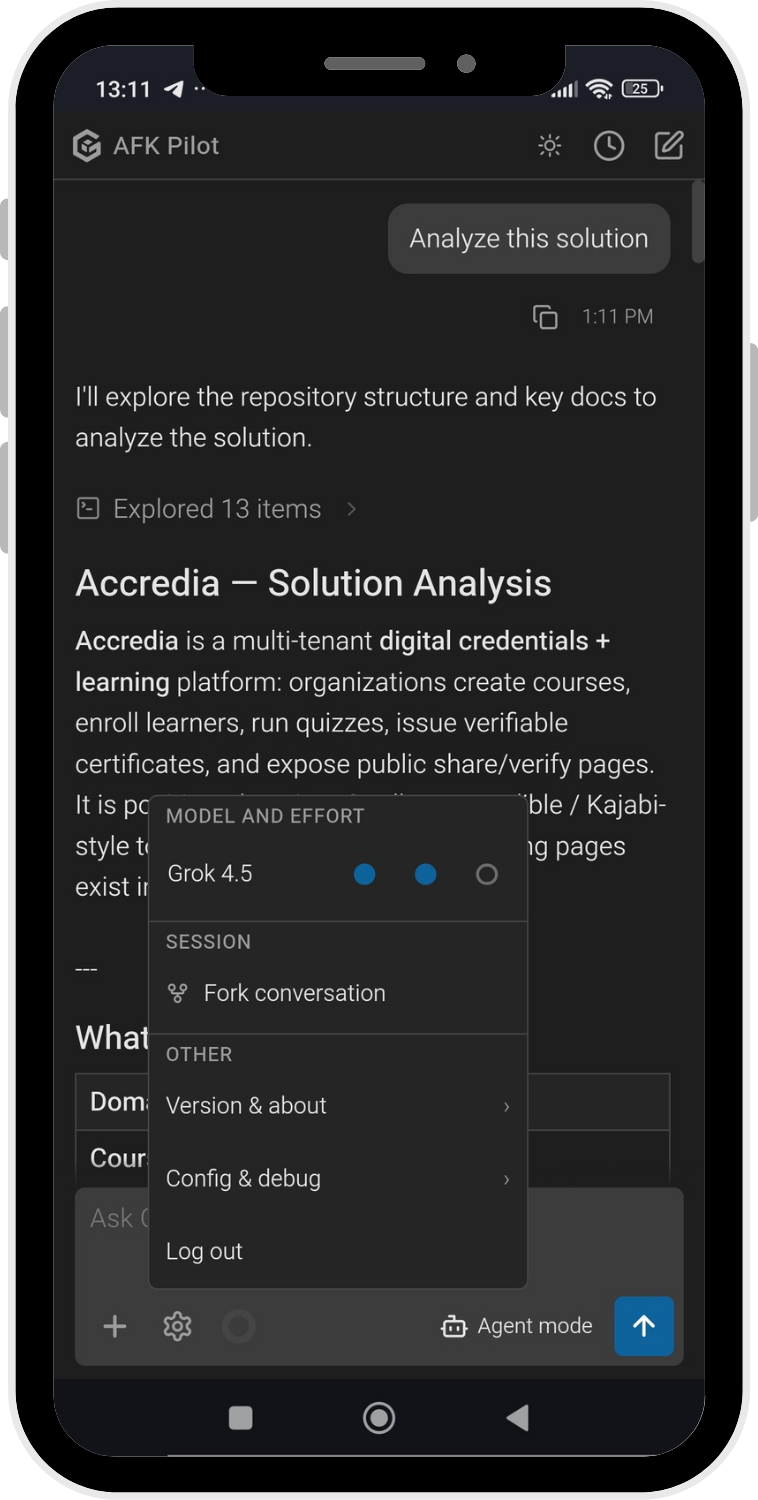
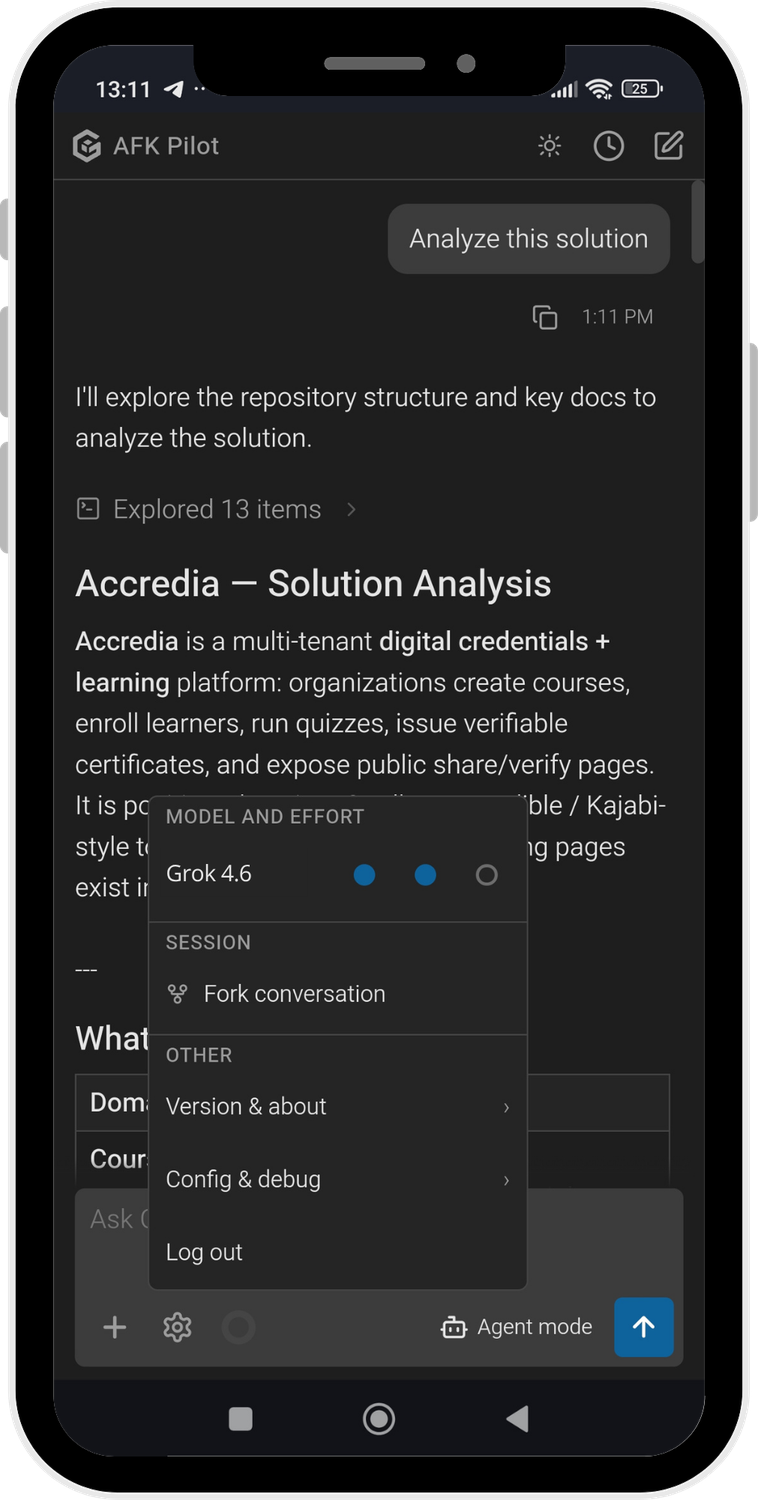
Website: the host is an IDE, adding a project is not desk-only, and one dead tooltip
Owner's pass over the marketing copy, plus the phone shot he re-took.

THE HOST IS NOT VS CODE. Two sentences named it as though it were — the
pairing-code line and the one-device FAQ answer — while the extension runs in
Cursor, Antigravity and everything else that takes a VSIX. Both now say "an IDE
such as VS Code, or Grok Build Desktop".

"ONLY AT THE DESK" CLAIMED TOO MUCH. "Adding a project folder — that opens a
file picker on the machine itself" stopped being true when creating and cloning
shipped as remote-capable: `createProject` and `cloneProject` are both "full"
in remote-policy.ts, and only `addProjectFolder` is host-local, because that one
opens a native picker a remote can neither see nor answer. So the desk column
now names exactly what is desk-bound — importing a folder that is already on the
machine — and the browser column gains the half that works.

Checked the neighbouring bullet rather than assuming: "Signing agents out of a
local machine — a Cloud machine can be signed out remotely" is accurate.
`logout` is host-local with a deliberate asymmetry (signing in adds an option,
signing out takes one away from every surface at once) and CLOUD_DISPOSITION
overrides it to "full". Left alone.

THE (i) ON "Unlimited local messages" is gone at the owner's request, and with
it the ~85 lines of tooltip CSS and JS it was the only user of. A tooltip system
with no tooltips is how the next reader loses ten minutes.
[…]

diff --git a/web/index.html b/web/index.html
@@ -402,58 +402,6 @@
   .plan-fine { margin: 0.85rem 0 0; font-family: var(--font-mono); font-size: 0.72rem; color: var(--faint); text-align: center; }
   .pricing-note { margin: 1.5rem auto 0; max-width: 780px; text-align: center; font-family: var(--font-mono); font-size: 0.72rem; color: var(--faint); }
 
-  /* info tooltip — hover on desktop, tap-to-toggle on touch (no hover to rely on) */
-  .info-wrap { position: relative; display: inline-flex; vertical-align: middle; margin-left: 0.35rem; }
-  .info-btn {
-    width: 1.05rem; height: 1.05rem; padding: 0;
-    display: inline-flex; align-items: center; justify-content: center;
-    border-radius: 50%;
-    border: 1px solid var(--border);
-    background: transparent;
-    color: var(--muted);
-    font-family: var(--font-mono);
-    font-size: 0.68rem;
-    line-height: 1;
-    cursor: pointer;
-  }
-  .info-btn:hover, .info-btn:focus-visible { color: var(--accent); border-color: var(--accent); }
-  .info-bubble {
-    position: absolute;
-    left: 50%;
-    bottom: calc(100% + 9px);
-    transform: translateX(-50%) translateY(4px);
-    width: max-content;
-    max-width: min(260px, 70vw);
-    background: var(--heading);
-    color: var(--bg);
-    font-family: var(--font-sans);
-    font-size: 0.78rem;
-    font-weight: 400;
-    line-height: 1.5;
-    text-align: left;
-    padding: 0.65rem 0.8rem;
-    border-radius: var(--radius-sm);
-    box-shadow: var(--shadow-lg);
-    opacity: 0;
-    pointer-events: none;
-    transition: opacity 0.15s ease, transform 0.15s ease;
-    z-index: 5;
-  }
-  .info-bubble::after {
-    content: "";
-    position: absolute;
-    top: 100%; left: 50%;
-    transform: translateX(-50%);
-    border: 5px solid transparent;
-    border-top-color: var(--heading);
-  }
-  .info-wrap:hover .info-bubble,
-  .info-wrap.is-open .info-bubble {
-    opacity: 1;
-    transform: translateX(-50%) translateY(0);
-    pointer-events: auto;
-  }
-
   /* ---------------- app view (signed in) ---------------- */
   .app { padding-block: clamp(2rem, 5vw, 3.25rem); }
   .app + .app { border-top: 1px solid var(--border-soft); }
@@ -703,7 +651,9 @@
   #add-device .setup-local > summary::-webkit-details-marker { display: none; }
   #add-device .setup-local > summary::after {
     content: "+";
-    margin-left: auto;
+    /* Beside "Three steps", not pushed to the container's right edge — it is
+       the marker for that label, and margin-left:auto stranded it far enough
+       away to read as unrelated furniture. */
     color: var(--faint);
     font-family: var(--font-mono);
   }
@@ -1066,7 +1016,7 @@
           <div class="feature">
             <span class="kw">pairing</span>
             <h3>Link once, chat anywhere</h3>
-            <p>Devices pair with a one-time code shown by your host — VS Code or Grok Build Desktop. Approve it in the browser and you are connected — no tunnels, no config.</p>
+            <p>Devices pair with a one-time code shown by your host — an IDE such as VS Code, or Grok Build Desktop. Approve it in the browser and you are connected — no tunnels, no config.</p>
           </div>
           <div class="feature">
             <span class="kw">privacy</span>
@@ -1126,10 +1076,6 @@
                 <li>The full chat UI</li>
                 <li>
                   Unlimited local messages
-                  <span class="info-wrap">
-                    <button type="button" class="info-btn" aria-label="What counts as a local message?" aria-expanded="false" aria-describedby="free-local-tip">i</button>
-                    <span class="info-bubble" id="free-local-tip" role="tooltip">Messages in the <b>Grok Build for VS Code (Community)</b> extension are never limited. You can use it inside VS Code, Cursor, Antigravity, and so on.</span>
-                  </span>
                 </li>
               </ul>
               <button class="btn btn-secondary js-signin" type="button">Start free</button>
@@ -1271,6 +1217,7 @@
                         <li>Open, edit and save project files, syntax-highlighted</li>
                         <li>Attach workspace files with @, add photos and documents</li>
                         <li>Connect Grok, Codex or Claude Code to a machine</li>
+                        <li>Add a project — name a new one, or clone it from a URL</li>
                         <li>Rewind the conversation, or edit a message you already sent</li>
                         <li>Sign in to GitHub, and clone a private repository onto a Cloud machine</li>
                         <li>Pick up the conversation open in VS Code or Desktop — both stay live</li>
@@ -1280,7 +1227,7 @@
                     <div class="cap cap-no">
                       <p class="cap-head">Only at the desk</p>
                       <ul>
-                        <li>Adding a project folder — that opens a file picker on the machine itself</li>
+                        <li>Importing a folder that is already on the machine — that opens a file picker there</li>
                         <li>Signing agents out of a local machine — a Cloud machine can be signed out remotely</li>
                         <li>Linking a new local machine — that starts in the extension or Desktop app</li>
                         <li>Dragging files onto the composer — use the attach button instead</li>
@@ -1314,7 +1261,7 @@
               <details class="faq-item" name="faq">
                 <summary>Is my phone one of my linked devices?</summary>
                 <div class="faq-body">
-                  <p>No. A linked device is a <b>machine running a host</b> — VS Code or Grok Build Desktop — and that is what the Free plan's one-device limit counts. Running <i>both</i> hosts on the same computer still counts as one device. Open the browser client on as many phones, tablets and laptops as you like; they all reach the same workspace, and two of them can watch the same run at once.</p>
+                  <p>No. A linked device is a <b>machine running a host</b> — an IDE such as VS Code, or Grok Build Desktop — and that is what the Free plan's one-device limit counts. Running <i>both</i> hosts on the same computer still counts as one device. Open the browser client on as many phones, tablets and laptops as you like; they all reach the same workspace, and two of them can watch the same run at once.</p>
                 </div>
               </details>
             </div>
@@ -1501,33 +1448,6 @@
   // stops the extra /api/me poll. Free users keep limits, so it keeps polling.
   let meterOff = false;
 
-  // Info tooltips (".info-wrap"): hover covers desktop via CSS alone; this
-  // adds tap-to-toggle for touch, where :hover either doesn't fire or sticks.
-  document.querySelectorAll(".info-btn").forEach((btn) => {
-    btn.addEventListener("click", (ev) => {
-      ev.stopPropagation();
-      const wrap = btn.closest(".info-wrap");
-      const open = wrap.classList.toggle("is-open");
-      btn.setAttribute("aria-expanded", String(open));
-      document.querySelectorAll(".info-wrap.is-open").forEach((w) => {
-        if (w !== wrap) { w.classList.remove("is-open"); w.querySelector(".info-btn").setAttribute("aria-expanded", "false"); }
-      });
-    });
-  });
-  document.addEventListener("click", () => {
-    document.querySelectorAll(".info-wrap.is-open").forEach((w) => {
-      w.classList.remove("is-open");
-      w.querySelector(".info-btn").setAttribute("aria-expanded", "false");
-    });
-  });
-  document.addEventListener("keydown", (ev) => {
-    if (ev.key === "Escape") {
-      document.querySelectorAll(".info-wrap.is-open").forEach((w) => {
-        w.classList.remove("is-open");
-        w.querySelector(".info-btn").setAttribute("aria-expanded", "false");
-      });
-    }
-  });
 
   async function authHeaders() {
     const headers = {};
